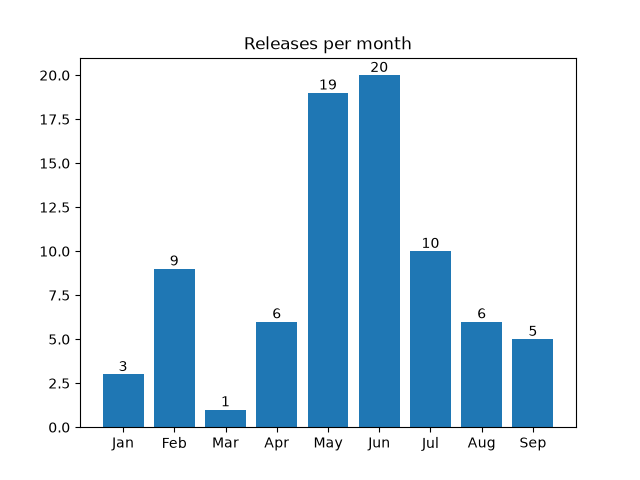
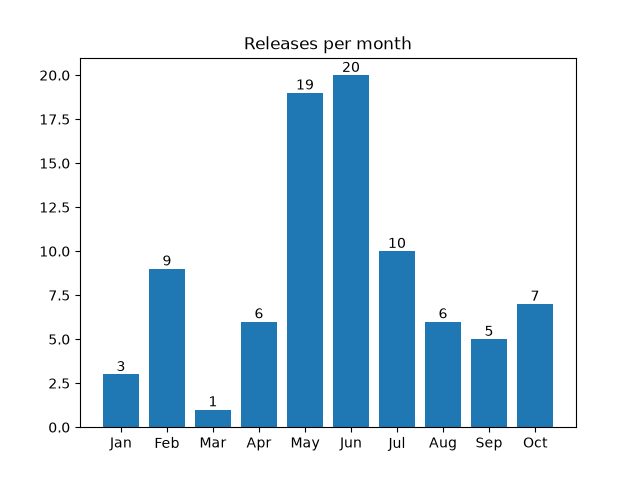
Apply automatic changes

diff --git a/docs/analytics.html b/docs/analytics.html
@@ -99,8 +99,8 @@ td .material-icons { display:inline-flex; vertical-align: top; font-size:1.1rem;
 						</tr>
 						<tr>
 							<td>Jul</td>
-							<td>10</td>
-							<td>4</td>
+							<td>9</td>
+							<td>3</td>
 						</tr>
 						<tr>
 							<td>Aug</td>
@@ -109,8 +109,13 @@ td .material-icons { display:inline-flex; vertical-align: top; font-size:1.1rem;
 						</tr>
 						<tr>
 							<td>Sep</td>
-							<td>4</td>
 							<td>6</td>
+							<td>6</td>
+						</tr>
+						<tr>
+							<td>Oct</td>
+							<td>2</td>
+							<td>2</td>
 						</tr>
 					</table>
 				</div>
@@ -201,13 +206,13 @@ td .material-icons { display:inline-flex; vertical-align: top; font-size:1.1rem;
 				<tr>
 					<td>1</td>
 					<td>
-						<a href="http://github.com/notofonts/anatolian-hieroglyphs/issues">anatolian-hieroglyphs</a>,  						<a href="http://github.com/notofonts/chorasmian/issues">chorasmian</a>,  						<a href="http://github.com/notofonts/cuneiform/issues">cuneiform</a>,  						<a href="http://github.com/notofonts/elbasan/issues">elbasan</a>,  						<a href="http://github.com/notofonts/glagolitic/issues">glagolitic</a>,  						<a href="http://github.com/notofonts/gunjala-gondi/issues">gunjala-gondi</a>,  						<a href="http://github.com/notofonts/hanunoo/issues">hanunoo</a>,  						<a href="http://github.com/notofonts/inscriptional-pahlavi/issues">inscriptional-pahlavi</a>,  						<a href="http://github.com/notofonts/kharoshthi/issues">kharoshthi</a>,  						<a href="http://github.com/notofonts/khitan-small-script/issues">khitan-small-script</a>,  						<a href="http://github.com/notofonts/khojki/issues">khojki</a>,  						<a href="http://github.com/notofonts/khudawadi/issues">khudawadi</a>,  						<a href="http://github.com/notofonts/masaram-gondi/issues">masaram-gondi</a>,  						<a href="http://github.com/notofonts/meetei-mayek/issues">meetei-mayek</a>,  						<a href="http://github.com/notofonts/miao/issues">miao</a>,  						<a href="http://github.com/notofonts/music/issues">music</a>,  						<a href="http://github.com/notofonts/nag-mundari/issues">nag-mundari</a>,  						<a href="http://github.com/notofonts/nko/issues">nko</a>,  						<a href="http://github.com/notofonts/nushu/issues">nushu</a>,  						<a href="http://github.com/notofonts/old-italic/issues">old-italic</a>,  						<a href="http://github.com/notofonts/old-turkic/issues">old-turkic</a>,  						<a href="http://github.com/notofonts/old-uyghur/issues">old-uyghur</a>,  						<a href="http://github.com/notofonts/osmanya/issues">osmanya</a>,  						<a href="http://github.com/notofonts/phags-pa/issues">phags-pa</a>,  						<a href="http://github.com/notofonts/psalter-pahlavi/issues">psalter-pahlavi</a>,  						<a href="http://github.com/notofonts/rejang/issues">rejang</a>,  						<a href="http://github.com/notofonts/runic/issues">runic</a>,  						<a href="http://github.com/notofonts/saurashtra/issues">saurashtra</a>,  						<a href="http://github.com/notofonts/sinhala/issues">sinhala</a>,  						<a href="http://github.com/notofonts/sogdian/issues">sogdian</a>,  						<a href="http://github.com/notofonts/tai-tham/issues">tai-tham</a>,  						<a href="http://github.com/notofonts/tai-viet/issues">tai-viet</a>,  						<a href="http://github.com/notofonts/takri/issues">takri</a>,  						<a href="http://github.com/notofonts/tangsa/issues">tangsa</a>,  						<a href="http://github.com/notofonts/vai/issues">vai</a>,  						<a href="http://github.com/notofonts/vithkuqi/issues">vithkuqi</a> 
+						<a href="http://github.com/notofonts/anatolian-hieroglyphs/issues">anatolian-hieroglyphs</a>,  						<a href="http://github.com/notofonts/chorasmian/issues">chorasmian</a>,  						<a href="http://github.com/notofonts/cuneiform/issues">cuneiform</a>,  						<a href="http://github.com/notofonts/elbasan/issues">elbasan</a>,  						<a href="http://github.com/notofonts/glagolitic/issues">glagolitic</a>,  						<a href="http://github.com/notofonts/gunjala-gondi/issues">gunjala-gondi</a>,  						<a href="http://github.com/notofonts/hanunoo/issues">hanunoo</a>,  						<a href="http://github.com/notofonts/inscriptional-pahlavi/issues">inscriptional-pahlavi</a>,  						<a href="http://github.com/notofonts/kharoshthi/issues">kharoshthi</a>,  						<a href="http://github.com/notofonts/khitan-small-script/issues">khitan-small-script</a>,  						<a href="http://github.com/notofonts/khudawadi/issues">khudawadi</a>,  						<a href="http://github.com/notofonts/masaram-gondi/issues">masaram-gondi</a>,  						<a href="http://github.com/notofonts/meetei-mayek/issues">meetei-mayek</a>,  						<a href="http://github.com/notofonts/miao/issues">miao</a>,  						<a href="http://github.com/notofonts/mongolian/issues">mongolian</a>,  						<a href="http://github.com/notofonts/nag-mundari/issues">nag-mundari</a>,  						<a href="http://github.com/notofonts/nko/issues">nko</a>,  						<a href="http://github.com/notofonts/nushu/issues">nushu</a>,  						<a href="http://github.com/notofonts/old-italic/issues">old-italic</a>,  						<a href="http://github.com/notofonts/old-turkic/issues">old-turkic</a>,  						<a href="http://github.com/notofonts/old-uyghur/issues">old-uyghur</a>,  						<a href="http://github.com/notofonts/osmanya/issues">osmanya</a>,  						<a href="http://github.com/notofonts/phags-pa/issues">phags-pa</a>,  						<a href="http://github.com/notofonts/psalter-pahlavi/issues">psalter-pahlavi</a>,  						<a href="http://github.com/notofonts/rejang/issues">rejang</a>,  						<a href="http://github.com/notofonts/runic/issues">runic</a>,  						<a href="http://github.com/notofonts/saurashtra/issues">saurashtra</a>,  						<a href="http://github.com/notofonts/sinhala/issues">sinhala</a>,  						<a href="http://github.com/notofonts/sogdian/issues">sogdian</a>,  						<a href="http://github.com/notofonts/tai-tham/issues">tai-tham</a>,  						<a href="http://github.com/notofonts/tai-viet/issues">tai-viet</a>,  						<a href="http://github.com/notofonts/takri/issues">takri</a>,  						<a href="http://github.com/notofonts/tangsa/issues">tangsa</a>,  						<a href="http://github.com/notofonts/vai/issues">vai</a> 
 					</td>
 				</tr>
 				<tr>
 					<td>2</td>
 					<td>
-						<a href="http://github.com/notofonts/armenian/issues">armenian</a>,  						<a href="http://github.com/notofonts/chakma/issues">chakma</a>,  						<a href="http://github.com/notofonts/dogra/issues">dogra</a>,  						<a href="http://github.com/notofonts/duployan/issues">duployan</a>,  						<a href="http://github.com/notofonts/lao/issues">lao</a>,  						<a href="http://github.com/notofonts/limbu/issues">limbu</a>,  						<a href="http://github.com/notofonts/mandaic/issues">mandaic</a>,  						<a href="http://github.com/notofonts/mongolian/issues">mongolian</a>,  						<a href="http://github.com/notofonts/old-hungarian-ui/issues">old-hungarian-ui</a>,  						<a href="http://github.com/notofonts/pau-cin-hau/issues">pau-cin-hau</a>,  						<a href="http://github.com/notofonts/tagalog/issues">tagalog</a>,  						<a href="http://github.com/notofonts/tamil/issues">tamil</a>,  						<a href="http://github.com/notofonts/yi/issues">yi</a> 
+						<a href="http://github.com/notofonts/armenian/issues">armenian</a>,  						<a href="http://github.com/notofonts/chakma/issues">chakma</a>,  						<a href="http://github.com/notofonts/dogra/issues">dogra</a>,  						<a href="http://github.com/notofonts/duployan/issues">duployan</a>,  						<a href="http://github.com/notofonts/khojki/issues">khojki</a>,  						<a href="http://github.com/notofonts/lao/issues">lao</a>,  						<a href="http://github.com/notofonts/limbu/issues">limbu</a>,  						<a href="http://github.com/notofonts/mandaic/issues">mandaic</a>,  						<a href="http://github.com/notofonts/music/issues">music</a>,  						<a href="http://github.com/notofonts/old-hungarian-ui/issues">old-hungarian-ui</a>,  						<a href="http://github.com/notofonts/pau-cin-hau/issues">pau-cin-hau</a>,  						<a href="http://github.com/notofonts/tagalog/issues">tagalog</a>,  						<a href="http://github.com/notofonts/tamil/issues">tamil</a>,  						<a href="http://github.com/notofonts/yi/issues">yi</a> 
 					</td>
 				</tr>
 				<tr>
@@ -225,13 +230,13 @@ td .material-icons { display:inline-flex; vertical-align: top; font-size:1.1rem;
 				<tr>
 					<td>5</td>
 					<td>
-						<a href="http://github.com/notofonts/bhaiksuki/issues">bhaiksuki</a>,  						<a href="http://github.com/notofonts/javanese/issues">javanese</a>,  						<a href="http://github.com/notofonts/nandinagari/issues">nandinagari</a>,  						<a href="http://github.com/notofonts/sharada/issues">sharada</a>,  						<a href="http://github.com/notofonts/sign-writing/issues">sign-writing</a>,  						<a href="http://github.com/notofonts/syloti-nagri/issues">syloti-nagri</a>,  						<a href="http://github.com/notofonts/tangut/issues">tangut</a>,  						<a href="http://github.com/notofonts/tibetan/issues">tibetan</a> 
+						<a href="http://github.com/notofonts/bhaiksuki/issues">bhaiksuki</a>,  						<a href="http://github.com/notofonts/javanese/issues">javanese</a>,  						<a href="http://github.com/notofonts/sharada/issues">sharada</a>,  						<a href="http://github.com/notofonts/sign-writing/issues">sign-writing</a>,  						<a href="http://github.com/notofonts/syloti-nagri/issues">syloti-nagri</a>,  						<a href="http://github.com/notofonts/tangut/issues">tangut</a>,  						<a href="http://github.com/notofonts/tibetan/issues">tibetan</a> 
 					</td>
 				</tr>
 				<tr>
 					<td>6</td>
 					<td>
-						<a href="http://github.com/notofonts/ahom/issues">ahom</a>,  						<a href="http://github.com/notofonts/gujarati/issues">gujarati</a>,  						<a href="http://github.com/notofonts/kawi/issues">kawi</a>,  						<a href="http://github.com/notofonts/malayalam/issues">malayalam</a>,  						<a href="http://github.com/notofonts/thai/issues">thai</a> 
+						<a href="http://github.com/notofonts/ahom/issues">ahom</a>,  						<a href="http://github.com/notofonts/gujarati/issues">gujarati</a>,  						<a href="http://github.com/notofonts/kawi/issues">kawi</a>,  						<a href="http://github.com/notofonts/malayalam/issues">malayalam</a>,  						<a href="http://github.com/notofonts/nandinagari/issues">nandinagari</a>,  						<a href="http://github.com/notofonts/thai/issues">thai</a> 
 					</td>
 				</tr>
 				<tr>
@@ -364,9 +369,11 @@ td .material-icons { display:inline-flex; vertical-align: top; font-size:1.1rem;
 
 									<a href="http://github.com/notofonts/duployan/issues">duployan</a>: 2, 
 
+									<a href="http://github.com/notofonts/khojki/issues">khojki</a>: 2, 
+
 									<a href="http://github.com/notofonts/lao/issues">lao</a>: 2, 
 
-									<a href="http://github.com/notofonts/mongolian/issues">mongolian</a>: 2, 
+									<a href="http://github.com/notofonts/music/issues">music</a>: 2, 
 
 									<a href="http://github.com/notofonts/pau-cin-hau/issues">pau-cin-hau</a>: 2, 
 
@@ -378,15 +385,13 @@ td .material-icons { display:inline-flex; vertical-align: top; font-size:1.1rem;
 
 									<a href="http://github.com/notofonts/hanunoo/issues">hanunoo</a>: 1, 
 
-									<a href="http://github.com/notofonts/khojki/issues">khojki</a>: 1, 
-
 									<a href="http://github.com/notofonts/masaram-gondi/issues">masaram-gondi</a>: 1, 
 
 									<a href="http://github.com/notofonts/meetei-mayek/issues">meetei-mayek</a>: 1, 
 
 									<a href="http://github.com/notofonts/miao/issues">miao</a>: 1, 
 
-									<a href="http://github.com/notofonts/music/issues">music</a>: 1, 
+									<a href="http://github.com/notofonts/mongolian/issues">mongolian</a>: 1, 
 
 									<a href="http://github.com/notofonts/nag-mundari/issues">nag-mundari</a>: 1, 
 
@@ -446,9 +451,7 @@ td .material-icons { display:inline-flex; vertical-align: top; font-size:1.1rem;
 
 									<a href="http://github.com/notofonts/phags-pa/issues">phags-pa</a>: 1, 
 
-									<a href="http://github.com/notofonts/runic/issues">runic</a>: 1, 
-
-									<a href="http://github.com/notofonts/vithkuqi/issues">vithkuqi</a>: 1
+									<a href="http://github.com/notofonts/runic/issues">runic</a>: 1
 							</td>
 						</tr>
 						<tr>
@@ -456,9 +459,9 @@ td .material-icons { display:inline-flex; vertical-align: top; font-size:1.1rem;
 							<td>
 									<a href="http://github.com/notofonts/dives-akuru/issues">dives-akuru</a>: 8, 
 
-									<a href="http://github.com/notofonts/bhaiksuki/issues">bhaiksuki</a>: 5, 
+									<a href="http://github.com/notofonts/nandinagari/issues">nandinagari</a>: 6, 
 
-									<a href="http://github.com/notofonts/nandinagari/issues">nandinagari</a>: 5, 
+									<a href="http://github.com/notofonts/bhaiksuki/issues">bhaiksuki</a>: 5, 
 
 									<a href="http://github.com/notofonts/tangut/issues">tangut</a>: 5, 
 
@@ -720,6 +723,29 @@ td .material-icons { display:inline-flex; vertical-align: top; font-size:1.1rem;
 									<li><a href="https://github.com/notofonts/devanagari/releases/tag/NotoSansDevanagari-v2.007">NotoSansDevanagari-v2.007</a></li>
 									<li><a href="https://github.com/notofonts/kannada/releases/tag/NotoSansKannada-v2.006">NotoSansKannada-v2.006</a></li>
 									<li><a href="https://github.com/notofonts/todhri/releases/tag/NotoSerifTodhri-v1.000">NotoSerifTodhri-v1.000</a></li>
+								</ul>
+							</td>
+						</tr>
+
+						<tr>
+							<td>Oct</td>
+							<td id="month-Oct">
+								<button
+									class="btn btn-link collapsed"
+									data-toggle="collapse"
+									data-target="#month-Oct .releases"
+								>
+									<span class="material-icons"></span>
+									7 releases
+								</button>
+								<ul class="releases collapse">
+									<li><a href="https://github.com/notofonts/arabic/releases/tag/NotoSansArabic-v2.013">NotoSansArabic-v2.013</a></li>
+									<li><a href="https://github.com/notofonts/arabic/releases/tag/NotoNaskhArabic-v2.020">NotoNaskhArabic-v2.020</a></li>
+									<li><a href="https://github.com/notofonts/arabic/releases/tag/NotoKufiArabic-v2.110">NotoKufiArabic-v2.110</a></li>
+									<li><a href="https://github.com/notofonts/mongolian/releases/tag/NotoSansMongolian-v3.100">NotoSansMongolian-v3.100</a></li>
+									<li><a href="https://github.com/notofonts/nandinagari/releases/tag/NotoSansNandinagari-v1.003">NotoSansNandinagari-v1.003</a></li>
+									<li><a href="https://github.com/notofonts/sinhala/releases/tag/NotoSansSinhala-v3.000">NotoSansSinhala-v3.000</a></li>
+									<li><a href="https://github.com/notofonts/syriac/releases/tag/NotoSansSyriacWestern-v3.001">NotoSansSyriacWestern-v3.001</a></li>
 								</ul>
 							</td>
 						</tr>
